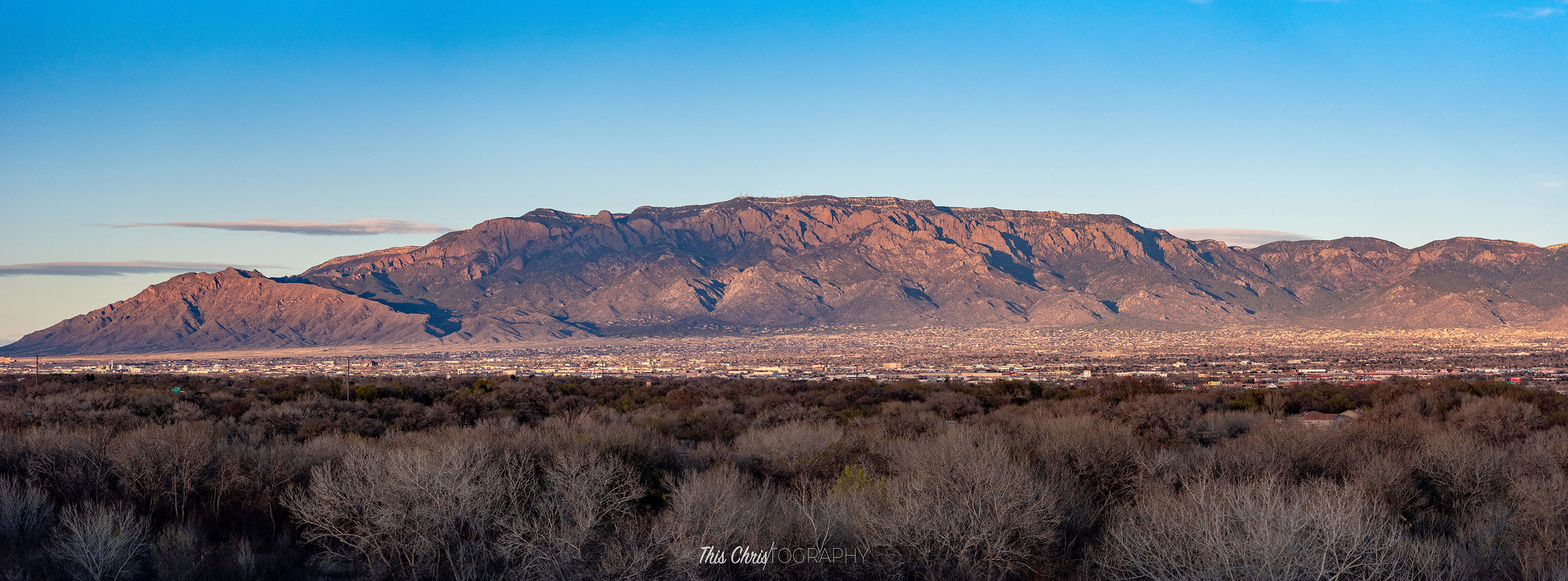
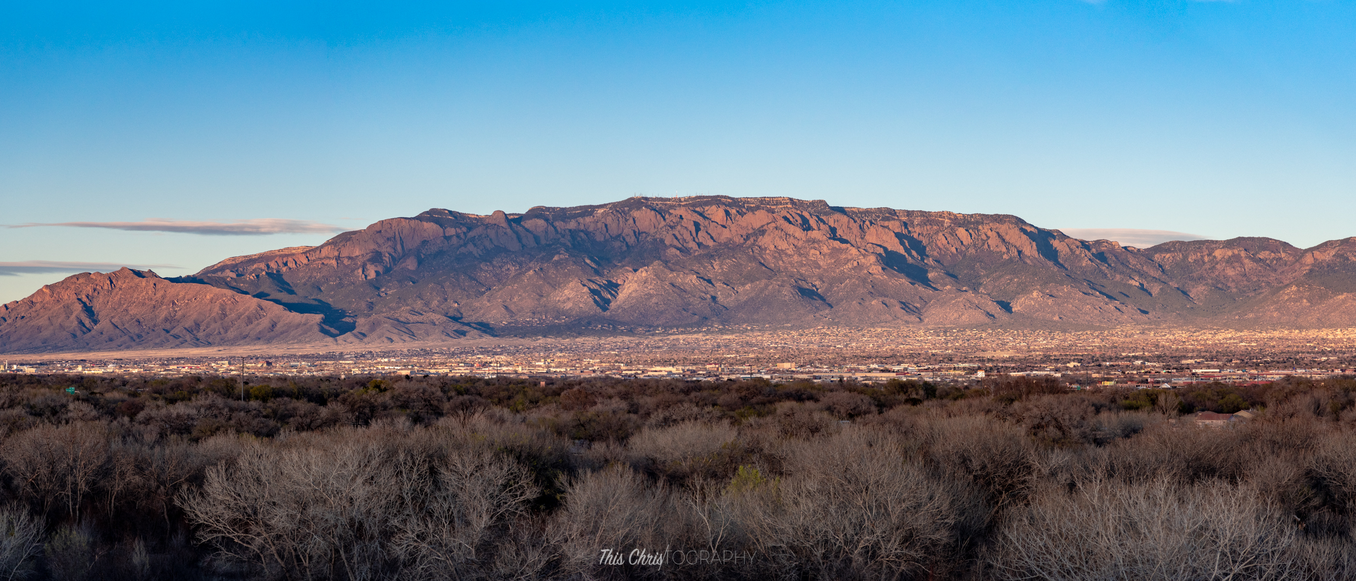
content: home backgrounds

diff --git a/src/pages/Home.tsx b/src/pages/Home.tsx
@@ -9,11 +9,11 @@ class Home extends React.Component {
     const images = [
       '/assets/images/ThisChristography-20190323.jpg',
       '/assets/images/ThisChristography-20190616.jpg',
-      '/assets/images/ThisChristography-20190905.jpg',
+      '/assets/images/ThisChristography-20191024.jpg',
     ];
     return (
       <div className="home">
-        <Carousel controls={false} fade={true}>
+        <Carousel controls={false} indicators={false} fade={true}>
           {images.map((img, idx) => (
             <Carousel.Item>
               <img className="d-block w-100" src={img} alt={`Slide ${idx}`} />
